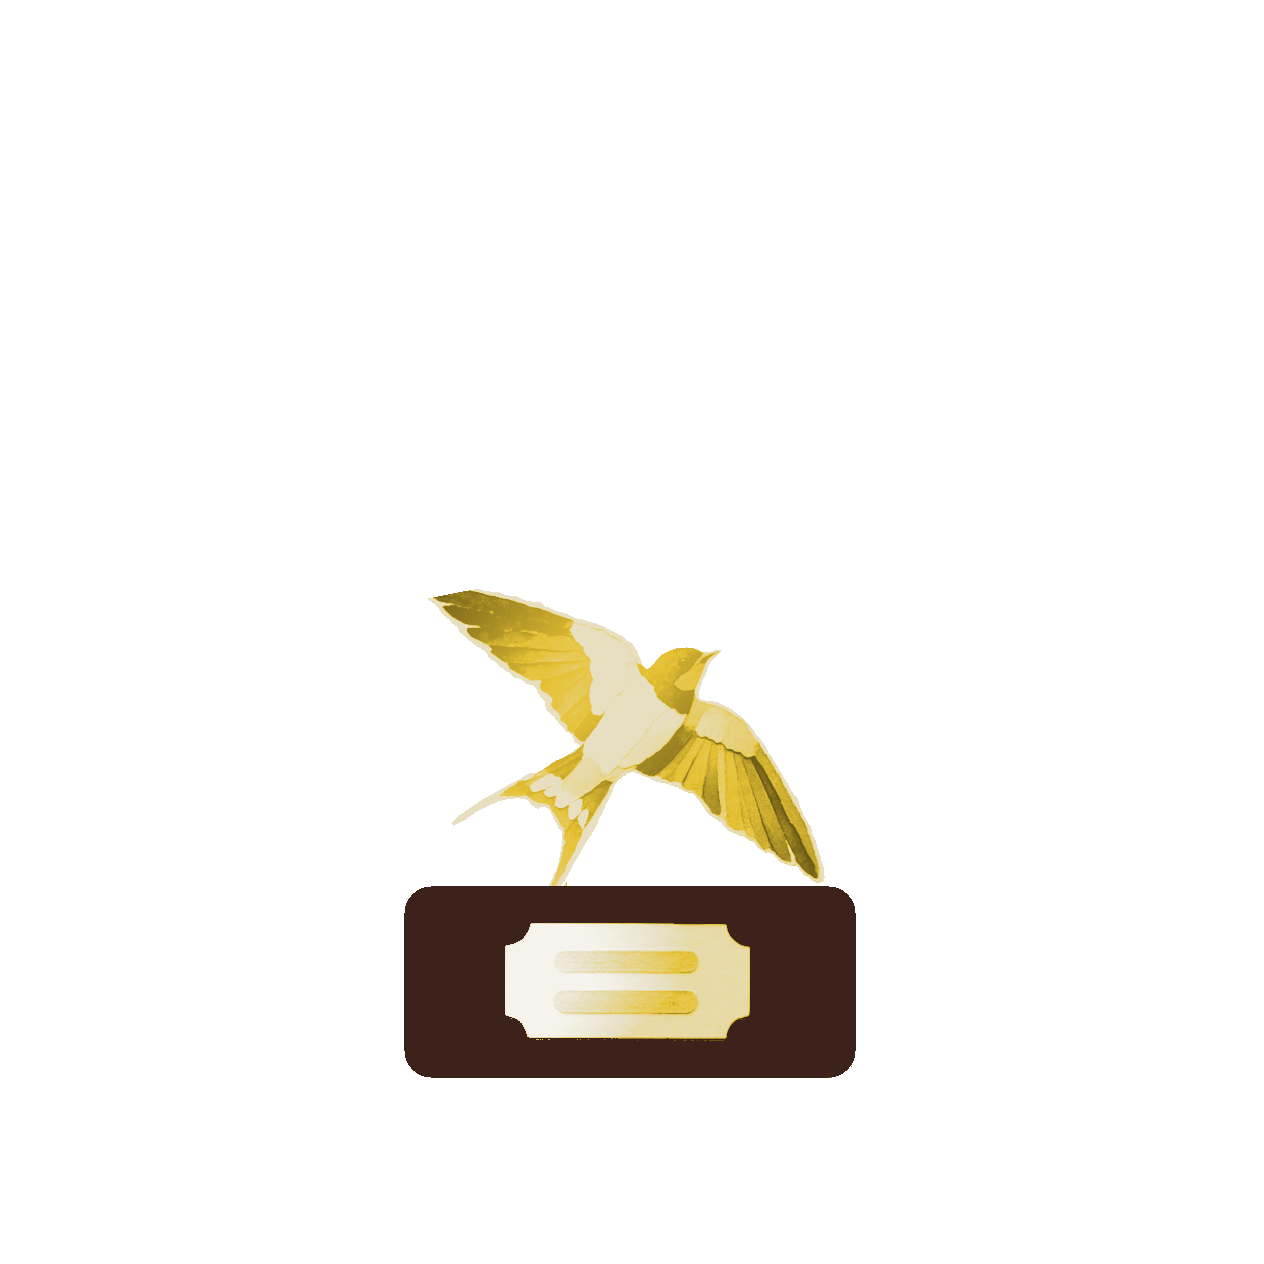
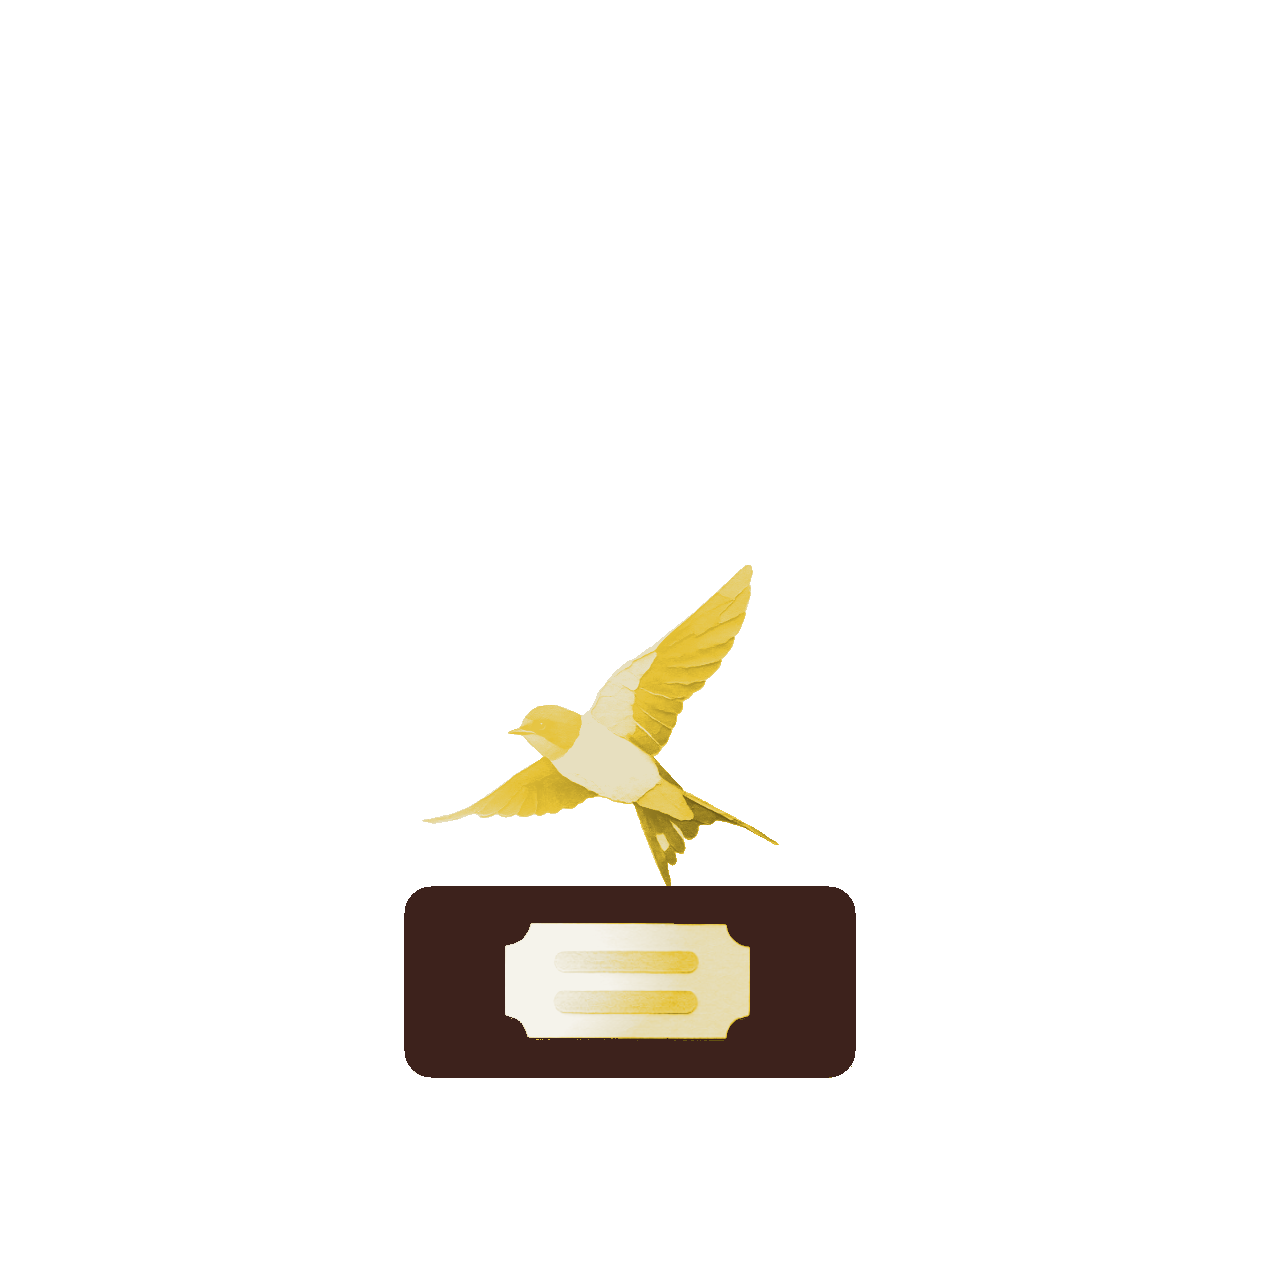
Refonte Hirondelle v2 : ecrase les PNGs Hirundinidae avec une nouvelle version. Compression -46%. Cache v309.

Changed region(s): [[0.3394, 0.432, 0.6479, 0.7097]]

diff --git a/service-worker.js b/service-worker.js
@@ -3,7 +3,7 @@
 //   puis rafraichit en background. Prochain reload = nouvelle version.
 // - Requetes cross-origin (Firestore, iNaturalist, xeno-canto, Wikipedia, etc.) : reseau seul.
 // - Bump CACHE_VERSION quand on veut invalider volontairement.
-const CACHE_VERSION = 'v308-2026-09-17-batch4-cigogne-cormoran-heron';
+const CACHE_VERSION = 'v309-2026-09-17-hirondelle-v2';
 const CACHE_NAME = 'lmb-' + CACHE_VERSION;
 
 self.addEventListener('install', (e) => {
